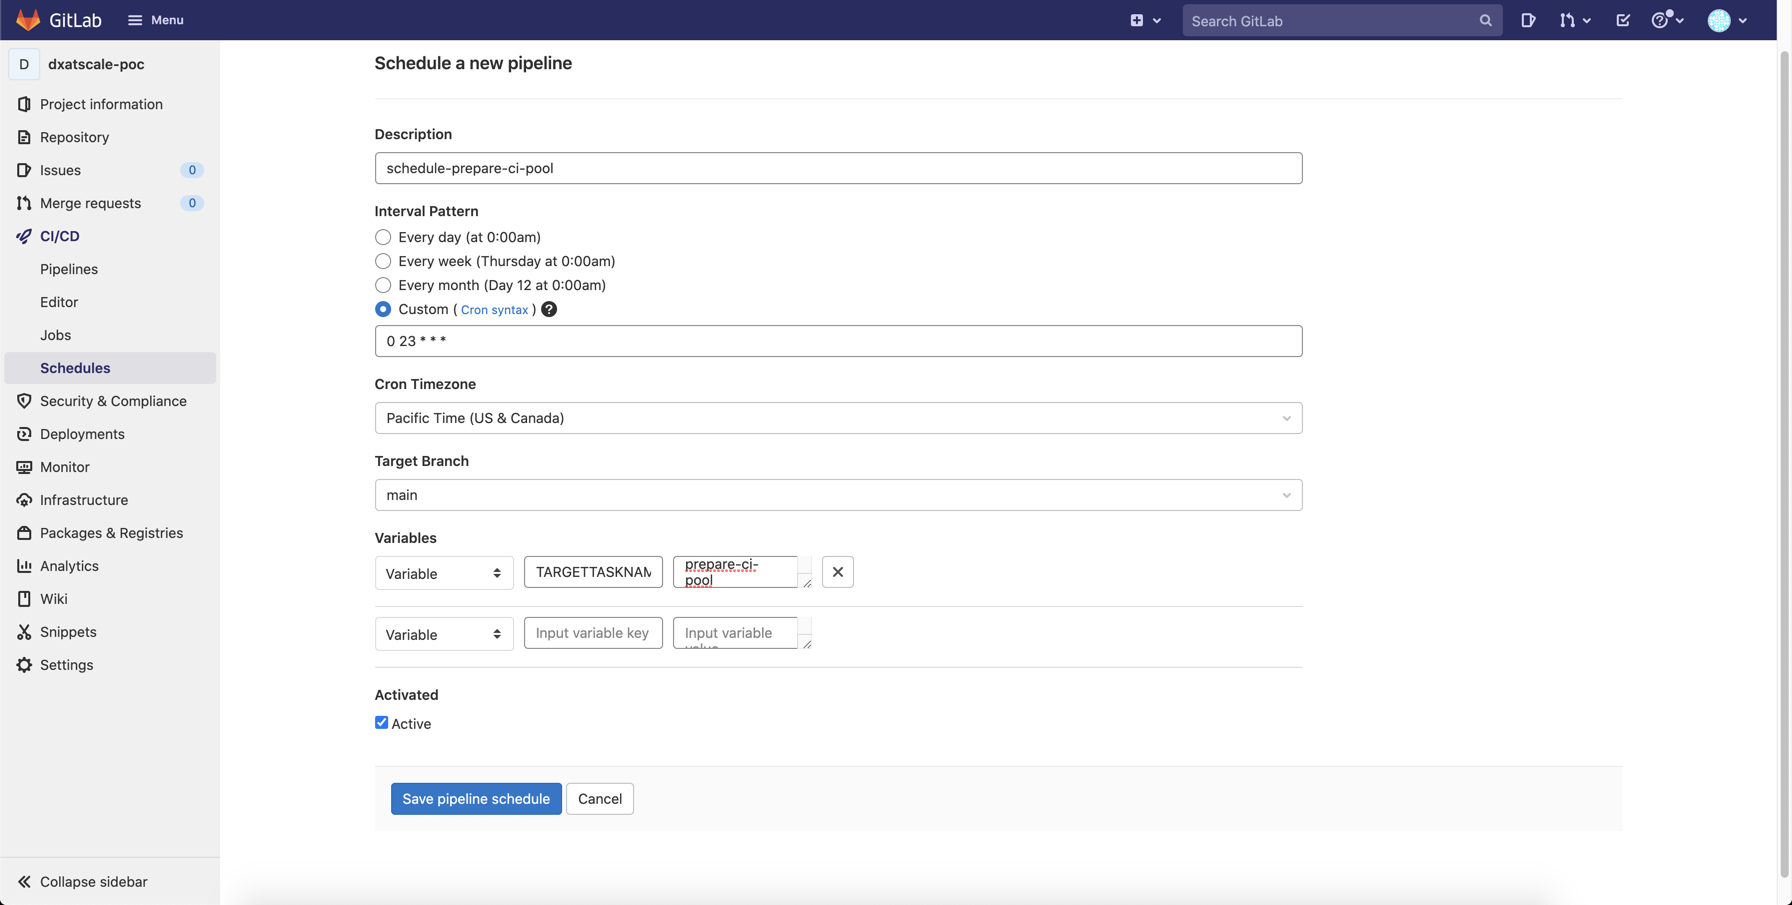
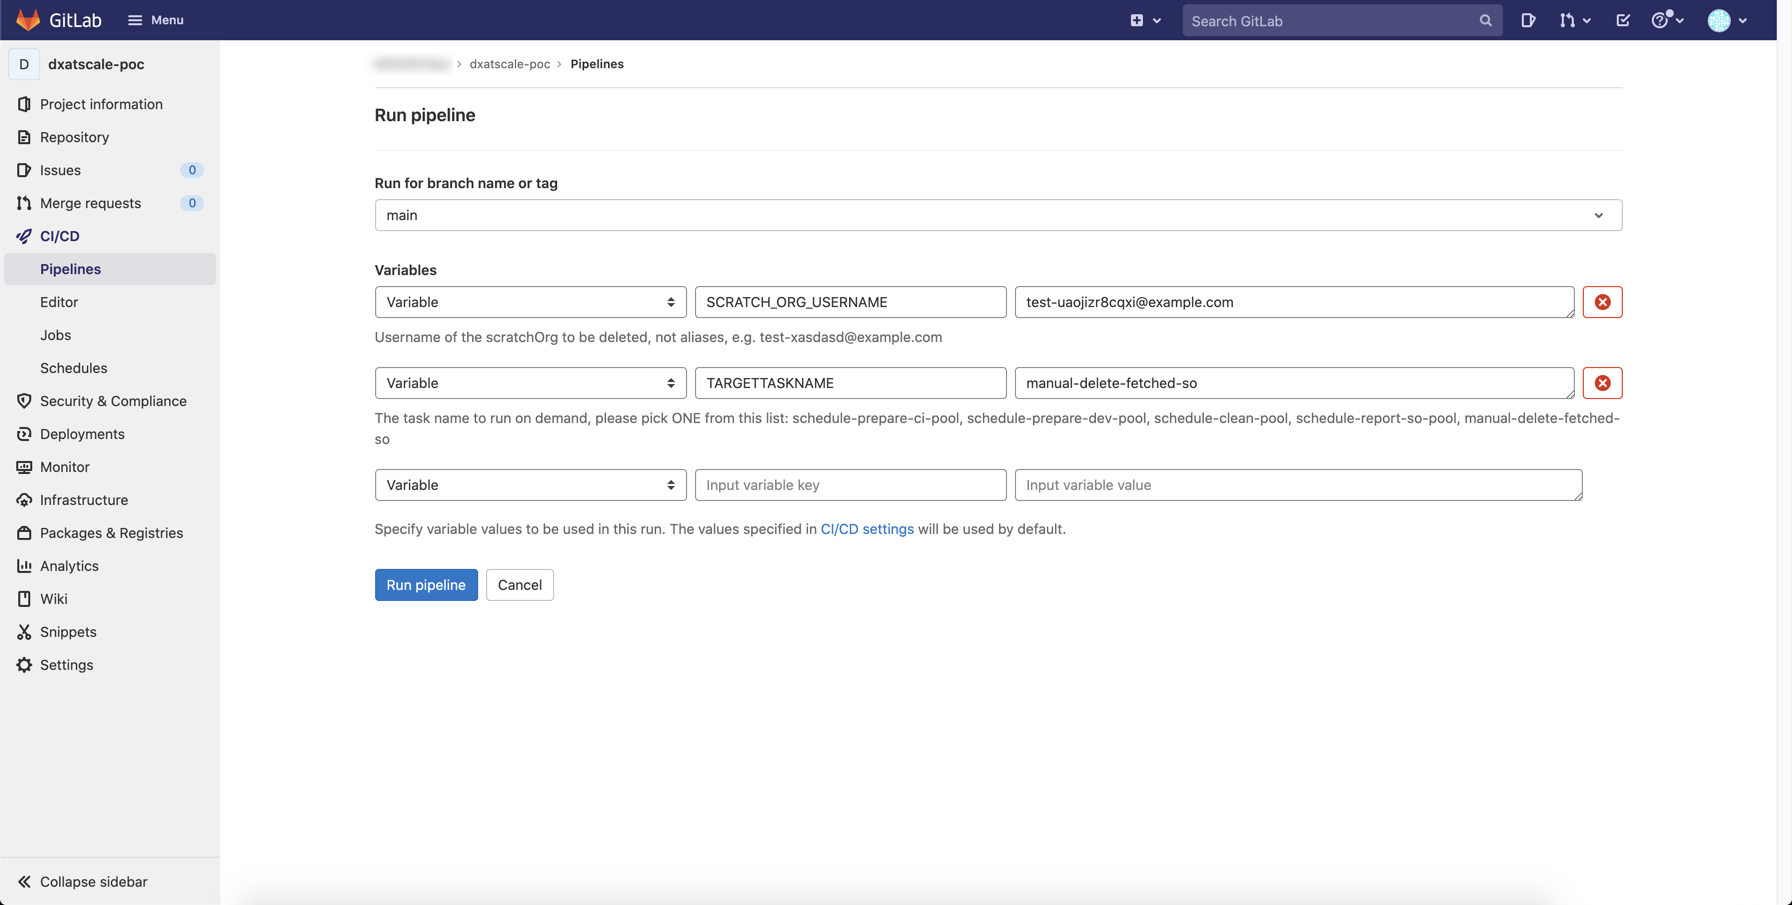
GitBook: [master] 69 pages and 2 assets modified

diff --git a/ci-cd/reference-implementation/gitlab/getting-started.md b/ci-cd/reference-implementation/gitlab/getting-started.md
@@ -499,6 +499,8 @@ The release stage in the **.gitlab-ci.yml** file across the defined environments
 
 ### F. Build Initial Package Artifacts
 
+Prior to creating the scratch org pools, an initial version of artifacts should be created in the Package Registry by sfpowerscripts based on the project configuration file.  In the dxatscale-template, the initial **core package** will be generated once the pipeline is executed for the first time and the build stage is completed and has published to the Package Registry. 
+
 1. Commit changes to trigger pipeline
 
 ### G. Scheduled Jobs
@@ -516,7 +518,7 @@ The release stage in the **.gitlab-ci.yml** file across the defined environments
 9. Keep **Activated** checked to **Active**
 10. Click **Save pipeline schedule**
 
-![](../../../.gitbook/assets/image%20%2831%29.png)
+![](../../../.gitbook/assets/image%20%2833%29.png)
 
 Repeat the steps above for all the scheduled jobs below. Interval Pattern should be scheduled during non-peak development windows for your development team to ensure limited disruption.  
 
@@ -556,11 +558,25 @@ sfdxAuthUrl  force://PlatformCLI::cUMRoQtoy)Lnjphoq7tj9PXadNVRdeTvCzyhp[FhUNsQsZ
 status       Assigned
 ```
 
-### G. Manual Job Execution
+### G. Manually Delete Fetched Scratch Org
 
-### H. Merge Requests
+1. Navigate to **CI/CD &gt; Pipelines**
+2. Click on **Run Pipeline**
+3. 
+![](../../../.gitbook/assets/image%20%2831%29.png)
 
-### H. Merge to Main
+### H. Merge Requests and Merge to Main
+
+1. Make changes
+2. Commit
+3. Raise a Merge Request
+4. Confirm validation pipeline passes
+
+### I. Add New Packages
+
+1. Update project configuration files
+2. Update .gitlab-ci.yml configuration file for the analyze-pmd and validate-package jobs for new packages
+3. Save and validate
 
 ## Dashboard Integration
 
